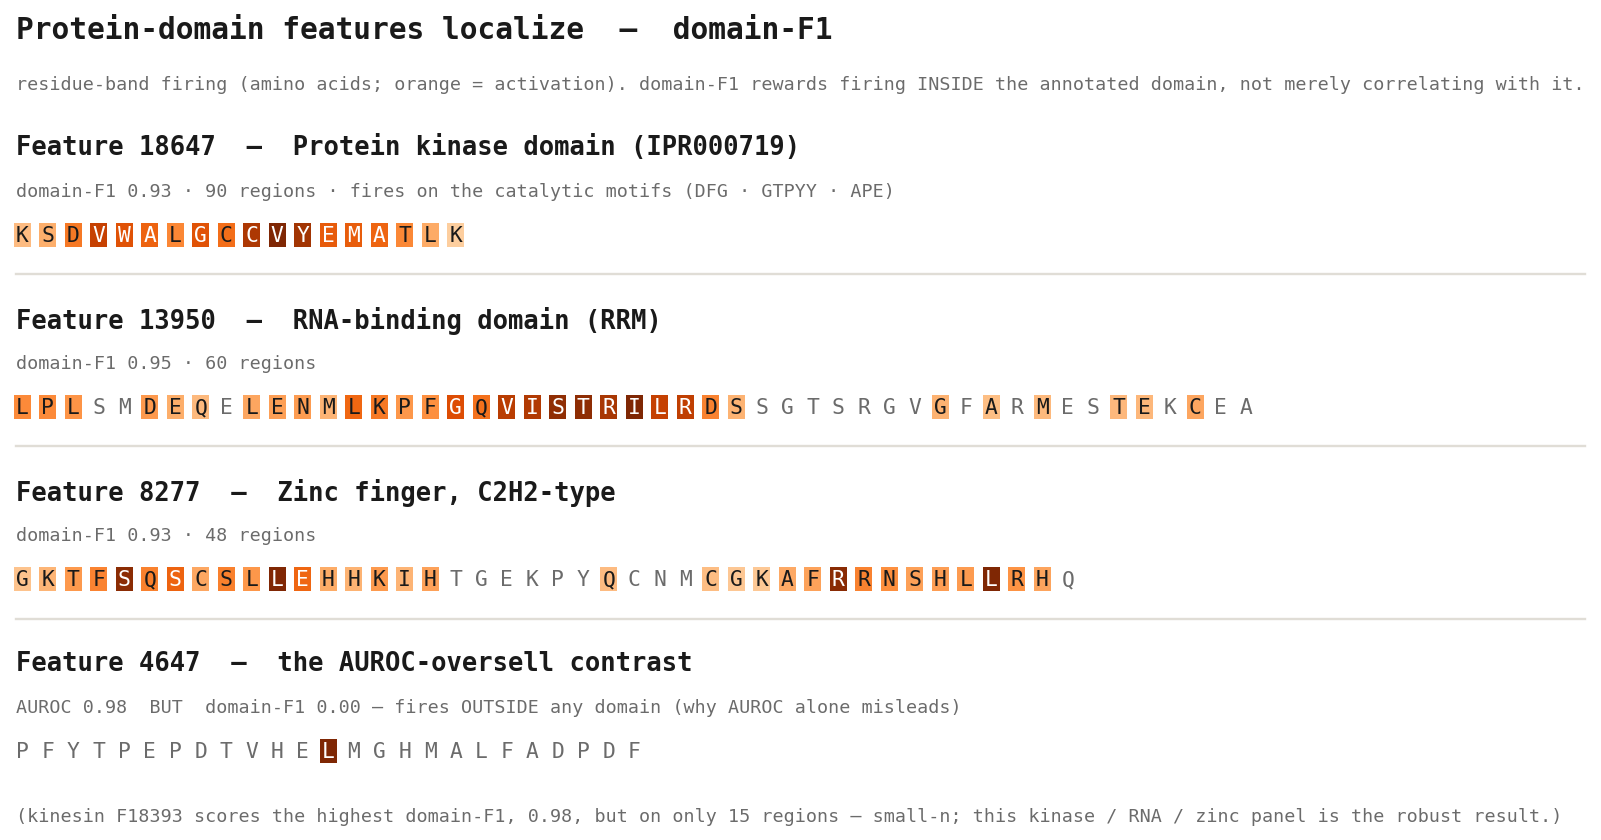
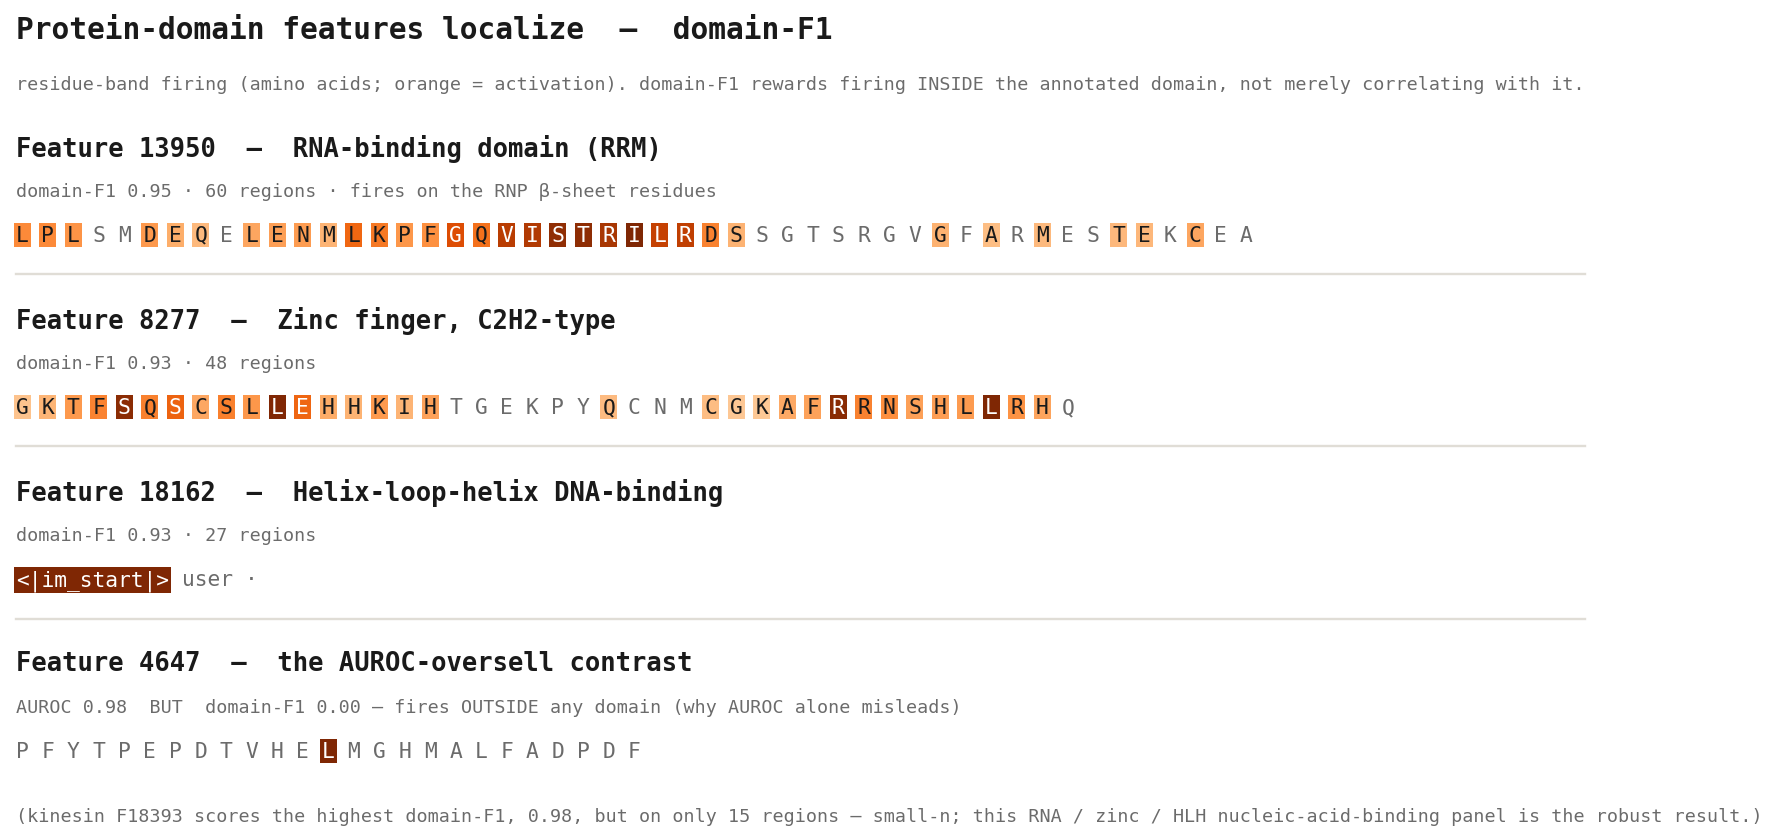
Blog: per-layer selectivity trend figure; commit domain-panel + steering/68-38 edits
- fig_selectivity_trend: concise 1-panel protein-selective count per layer (balanced
  vs natural mix, peak L24), wired into §2.2
- commit the handed-off working-tree changes: domain-F1 panel (RRM/zinc/HLH) + §3.5
  steering, §3.3 68/38 mechanism, §3.2 caption realignment

diff --git a/bionemo-recipes/interpretability/sparse_autoencoders/recipes/bioreason_pro/scripts/make_selectivity_trend.py b/bionemo-recipes/interpretability/sparse_autoencoders/recipes/bioreason_pro/scripts/make_selectivity_trend.py
@@ -1,0 +1,39 @@
+"""Concise 1-panel trend: protein-selective feature count per layer, balanced vs unbalanced.
+Reads the cached layer_balance_counts.json (no SAE re-encoding needed)."""
+import json
+import matplotlib
+matplotlib.use("Agg")
+import matplotlib.pyplot as plt
+
+REC = "/data/savithas/phase3-wt/bionemo-recipes/interpretability/sparse_autoencoders/recipes/bioreason_pro"
+d = json.load(open(f"{REC}/analysis/figures/layer_balance_counts.json"))
+L = sorted(int(k) for k in d)
+bal = [d[str(x)]["bal_ps"] for x in L]
+unbal = [d[str(x)]["unbal_ps"] for x in L]
+BLUE, GREY, INK, MUTED = "#2563eb", "#9aa3ad", "#1a1a1a", "#6b6b6b"
+
+fig, ax = plt.subplots(figsize=(7.2, 3.7)); fig.patch.set_facecolor("white")
+ax.plot(L, bal, "-o", color=BLUE, lw=2.2, ms=6, zorder=3)
+ax.plot(L, unbal, "-o", color=GREY, lw=2.0, ms=5, zorder=2)
+# direct labels (no legend box)
+ax.text(L[-1] + 0.4, bal[-1], "balanced", color=BLUE, va="center", fontsize=11, fontweight="bold")
+ax.text(L[-1] + 0.4, unbal[-1] + 34, "unbalanced\n(natural mix)", color="#79818b", va="center", fontsize=9.5, linespacing=1.1)
+# peak marker
+pk = L[bal.index(max(bal))]
+ax.annotate(f"peak L{pk}\n{max(bal)} features", (pk, max(bal)), xytext=(pk, max(bal) + 90),
+            ha="center", fontsize=9, color=INK,
+            arrowprops=dict(arrowstyle="-", color="#c9c3b6", lw=1))
+ax.set_xlabel("layer", fontsize=10, color=MUTED)
+ax.set_ylabel("protein-selective features", fontsize=10, color=MUTED)
+ax.set_title("Modality balancing gives protein a vocabulary at every layer",
+             fontsize=12, color=INK, fontweight="bold", loc="left")
+ax.set_xticks(L); ax.set_xlim(L[0] - 0.5, L[-1] + 3.5); ax.set_ylim(0, max(bal) + 150)
+for s in ("top", "right"):
+    ax.spines[s].set_visible(False)
+for s in ("left", "bottom"):
+    ax.spines[s].set_color("#cfcbc2")
+ax.tick_params(labelsize=8.5, colors=MUTED)
+ax.grid(axis="y", color="#eeece7", lw=0.8, zorder=0)
+fig.tight_layout()
+fig.savefig(f"{REC}/results/charts/fig_selectivity_trend.png", dpi=170, facecolor="white", bbox_inches="tight")
+print("wrote fig_selectivity_trend.png")

diff --git a/bionemo-recipes/interpretability/sparse_autoencoders/recipes/bioreason_pro/scripts/make_feature_figs.py b/bionemo-recipes/interpretability/sparse_autoencoders/recipes/bioreason_pro/scripts/make_feature_figs.py
@@ -245,11 +245,11 @@ c.wins(windows(23726, "answer", 1))
 fig.savefig(OUT + "fig_fungal_feature_card.png", dpi=170, facecolor="white", bbox_inches="tight")
 print("wrote fig_fungal_feature_card.png")
 
-# ===== FIGURE F: domain-F1 localization panel (kinase-led, robust; not kinesin-only) =====
+# ===== FIGURE F: domain-F1 localization panel (nucleic-acid-binding, robust; not kinesin-only) =====
 DOM = [
-    (18647, "Protein kinase domain (IPR000719)", "domain-F1 0.93 · 90 regions · fires on the catalytic motifs (DFG · GTPYY · APE)"),
-    (13950, "RNA-binding domain (RRM)", "domain-F1 0.95 · 60 regions"),
+    (13950, "RNA-binding domain (RRM)", "domain-F1 0.95 · 60 regions · fires on the RNP β-sheet residues"),
     (8277, "Zinc finger, C2H2-type", "domain-F1 0.93 · 48 regions"),
+    (18162, "Helix-loop-helix DNA-binding", "domain-F1 0.93 · 27 regions"),
     (4647, "the AUROC-oversell contrast", "AUROC 0.98  BUT  domain-F1 0.00 — fires OUTSIDE any domain (why AUROC alone misleads)"),
 ]
 fig, c = new_fig(5.4)
@@ -263,7 +263,7 @@ for i, (fid, dom, sub) in enumerate(DOM):
     if i < len(DOM) - 1:
         c.rule()
 c.gap(0.2)
-c.sub("(kinesin F18393 scores the highest domain-F1, 0.98, but on only 15 regions — small-n; this kinase / RNA / zinc panel is the robust result.)")
+c.sub("(kinesin F18393 scores the highest domain-F1, 0.98, but on only 15 regions — small-n; this RNA / zinc / HLH nucleic-acid-binding panel is the robust result.)")
 fig.savefig(OUT + "fig_domain_f1_panel.png", dpi=170, facecolor="white", bbox_inches="tight")
 print("wrote fig_domain_f1_panel.png")
 

diff --git a/bionemo-recipes/interpretability/sparse_autoencoders/recipes/bioreason_pro/results/BLOG.md b/bionemo-recipes/interpretability/sparse_autoencoders/recipes/bioreason_pro/results/BLOG.md
@@ -46,6 +46,9 @@ A **20–50× increase at every layer** — balancing carves out capacity the na
 ![balancing at layer 24](charts/fig_balance_condensed.png)
 > **Modality balancing at layer 24 (the peak).** Each dot is a feature: x = fraction of text tokens it fires on, y = fraction of protein tokens; blue = protein-selective. Unbalanced (left) gives protein 34 dedicated features; balanced (right) gives 928. All nine layers in Appendix A.
 
+![protein-selective per layer](charts/fig_selectivity_trend.png)
+> **Protein vocabulary across layers.** Protein-selective feature count per layer, balanced vs the natural mix. Balancing lifts protein from ~10–34 dedicated features to ~570–928 at every layer (peak L24), a 20–50× gain.
+
 Two more multimodal-training lessons:
 
 - **Batch-aggregated loss, not per-token** (`--aggregate-loss` + `--normalize-loss`). In a multimodal stream tokens sit at very different distances from the shared center and are reconstructed to very different degrees; a per-token loss ratio starves the minority modality's features (FVU term) and mis-aims dead-latent revival toward already-well-reconstructed tokens (AuxK term). Batch aggregation fixes both. (Single-modality recipes like evo2 can skip it; multimodal cannot.)
